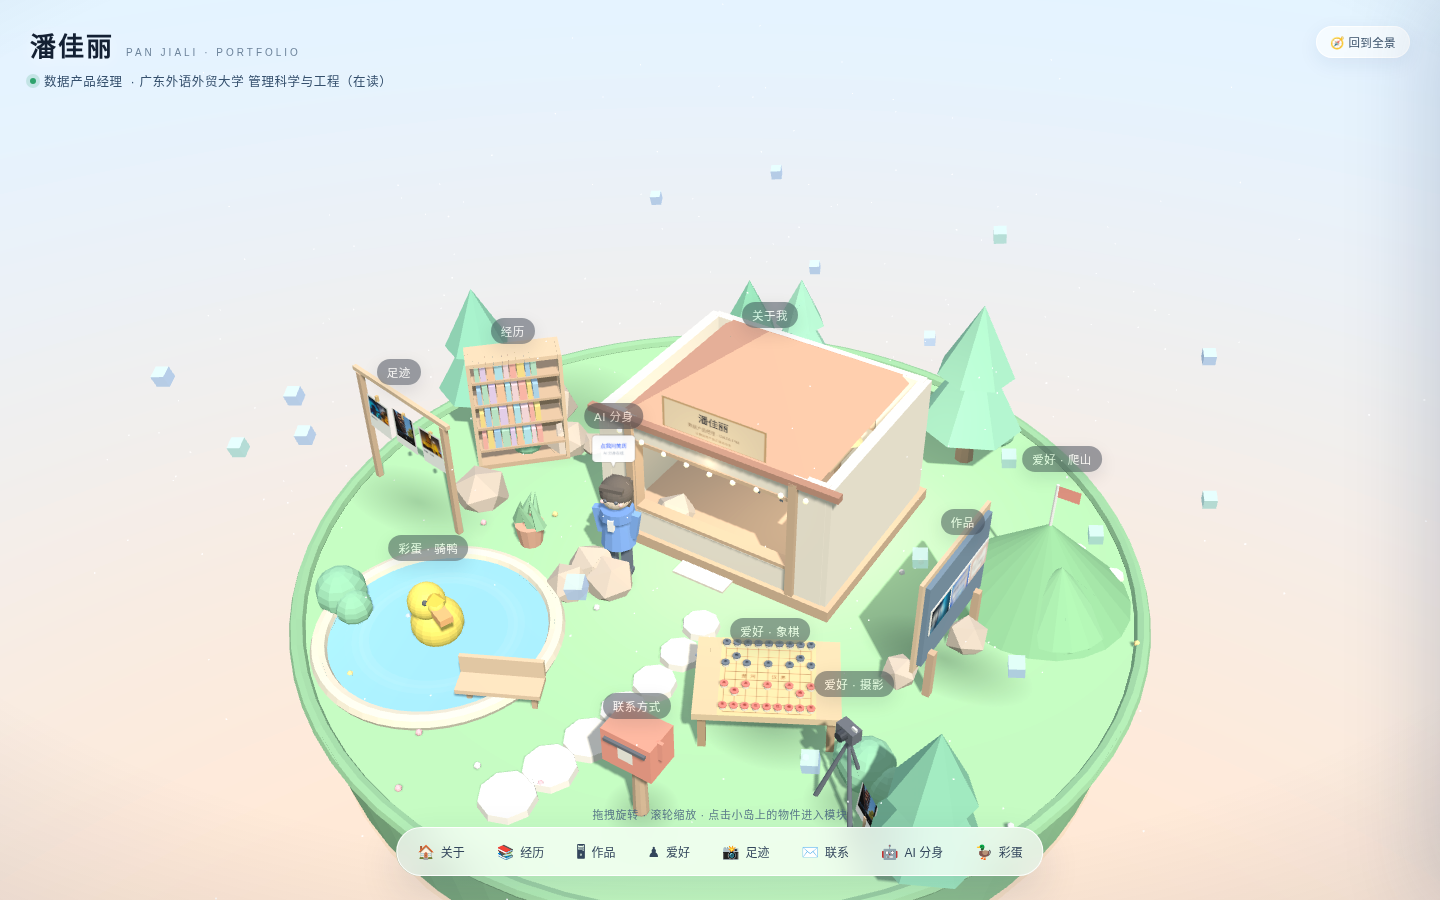
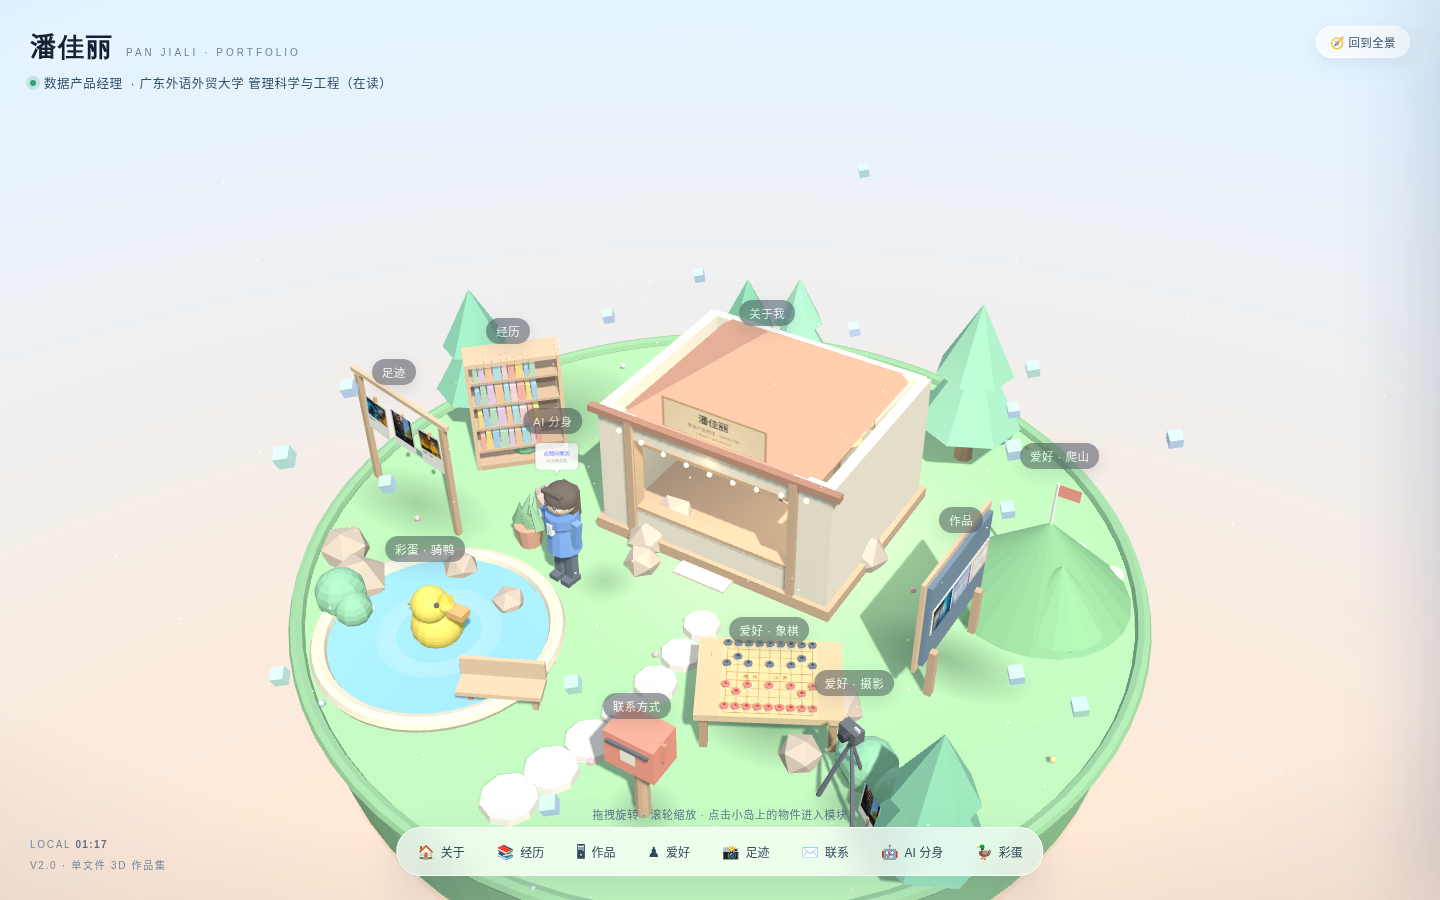
v2: cinematic intro, custom cursor, camera parallax, drag inertia, water ripples, focus ring, section index, clock, arrow keys

diff --git a/index.html b/index.html
@@ -32,6 +32,38 @@ canvas#scene.dragging{cursor:grabbing}
 #vignette{position:fixed;inset:0;pointer-events:none;z-index:6;background:radial-gradient(125% 105% at 50% 42%,rgba(255,255,255,0) 52%,rgba(24,46,84,.18) 88%,rgba(18,34,64,.3) 100%);mix-blend-mode:multiply}
 canvas#scene.pointing{cursor:pointer}
 
+/* ---------- v2：光标 / 氛围 / 章节 ---------- */
+#cursor{
+  position:fixed;left:0;top:0;width:24px;height:24px;margin:-12px 0 0 -12px;border-radius:50%;
+  border:1.4px solid rgba(24,44,74,.45);z-index:60;pointer-events:none;opacity:0;
+  transition:width .24s cubic-bezier(.2,.8,.2,1),height .24s cubic-bezier(.2,.8,.2,1),
+             margin .24s cubic-bezier(.2,.8,.2,1),background .24s,border-color .24s,opacity .25s;
+}
+#cursor.on{opacity:1}
+#cursor.hot{width:46px;height:46px;margin:-23px 0 0 -23px;background:rgba(47,107,255,.13);border-color:rgba(47,107,255,.75)}
+@media (hover:hover) and (pointer:fine){
+  canvas#scene{cursor:none}
+}
+@media (max-width:820px){#cursor{display:none}}
+
+.hud-meta{left:30px;bottom:26px;display:flex;flex-direction:column;gap:5px;font-size:10px;letter-spacing:1.7px;
+  color:#41607f;opacity:.7;text-transform:uppercase;line-height:1.6}
+.hud-meta b{font-weight:600;color:#233c58;letter-spacing:1.4px}
+@media (max-width:640px){.hud-meta{display:none}}
+
+.idxline{display:flex;align-items:flex-end;justify-content:space-between;gap:10px;margin-bottom:8px;padding-right:34px}
+.idxline .eyebrow{margin:0}
+.idxline .idx{font-size:10px;letter-spacing:2.4px;color:#8d97a6;font-variant-numeric:tabular-nums}
+.panel-head .bar{position:absolute;left:26px;right:26px;bottom:-1px;height:2px;border-radius:2px;
+  background:rgba(20,40,80,.07);overflow:hidden}
+.panel-head .bar i{display:block;height:100%;width:0;background:linear-gradient(90deg,#2f6bff,#8fb6ff);
+  transition:width .7s cubic-bezier(.2,.8,.2,1) .08s}
+body.panel-open #vignette{background:radial-gradient(120% 100% at 50% 46%,rgba(255,255,255,0) 46%,rgba(24,46,84,.24) 86%,rgba(14,28,54,.38) 100%)}
+
+.brand h1 span{display:inline-block;opacity:0;transform:translateY(10px);
+  animation:riseIn .9s cubic-bezier(.2,.8,.2,1) forwards}
+@keyframes riseIn{to{opacity:1;transform:none}}
+
 /* ---------- HUD ---------- */
 .hud{position:fixed;z-index:8;pointer-events:none;user-select:none}
 .hud-top{top:26px;left:30px;display:flex;flex-direction:column;gap:8px}
@@ -296,15 +328,21 @@ body.riding #labels{opacity:0}
 <body>
 <canvas id="scene"></canvas>
 <div id="vignette"></div>
+<div id="cursor"></div>
 <div id="labels"></div>
 
 <div class="hud hud-top">
-  <div class="brand"><h1>潘佳丽</h1><span class="en">PAN JIALI · PORTFOLIO</span></div>
+  <div class="brand"><h1 id="brandName">潘佳丽</h1><span class="en">PAN JIALI · PORTFOLIO</span></div>
   <div class="brand-sub"><span class="dot"></span><span>数据产品经理</span><span class="edu">· 广东外语外贸大学 管理科学与工程（在读）</span></div>
 </div>
 
 <div class="hud hud-right">
   <div class="pill" id="btnReset">🧭 回到全景</div>
+</div>
+
+<div class="hud hud-meta">
+  <span>LOCAL <b id="metaClock">--:--</b></span>
+  <span>V2.0 · 单文件 3D 作品集</span>
 </div>
 
 <div class="hud hint">拖拽旋转 · 滚轮缩放 · 点击小岛上的物件进入模块</div>
@@ -322,10 +360,11 @@ body.riding #labels{opacity:0}
 
 <aside class="panel" id="panel">
   <div class="panel-head">
-    <div class="eyebrow" id="pEyebrow"></div>
+    <div class="idxline"><div class="eyebrow" id="pEyebrow"></div><span class="idx" id="pIdx"></span></div>
     <h2 id="pTitle"></h2>
     <p id="pSub"></p>
     <button class="close" id="pClose">✕</button>
+    <div class="bar"><i id="pBar"></i></div>
   </div>
   <div class="panel-body" id="pBody"></div>
   <div class="foot-note" id="pFoot">潘佳丽 · 3D 个人小岛 · 拖拽可继续环视</div>
@@ -1195,6 +1234,62 @@ register('duck', duck, '彩蛋 · 骑鸭', 1.4, 1.2, { theta: 0.2, phi: 1.16, r:
 hotspots.forEach(h => h.base = h.root.position.y);
 
 
+/* --- v2 交互层：光标 / 视差 / 惯性 / 涟漪 --- */
+const cursorEl = document.getElementById('cursor');
+const cur = { x: innerWidth / 2, y: innerHeight / 2, tx: innerWidth / 2, ty: innerHeight / 2, on: false, overUI: false };
+addEventListener('pointermove', e => {
+  cur.tx = e.clientX; cur.ty = e.clientY;
+  if (!cur.on && e.pointerType === 'mouse') { cur.on = true; cursorEl.classList.add('on'); }
+  if (e.pointerType === 'mouse' && pointers.size === 0) {
+    par.tx = (e.clientX / innerWidth) * 2 - 1;
+    par.ty = (e.clientY / innerHeight) * 2 - 1;
+  }
+});
+addEventListener('pointerleave', () => { cur.on = false; cursorEl.classList.remove('on'); });
+document.addEventListener('pointerover', e => {
+  cur.overUI = !!e.target.closest('button,.pill,.tag,img,.xqp,input');
+});
+function tickCursor(dt) {
+  const k = 1 - Math.pow(0.0007, dt);
+  cur.x += (cur.tx - cur.x) * k;
+  cur.y += (cur.ty - cur.y) * k;
+  cursorEl.style.transform = `translate(${cur.x}px,${cur.y}px)`;
+  cursorEl.classList.toggle('hot', !!hoverId || cur.overUI);
+}
+
+// 相机鼠标视差
+const par = { x: 0, y: 0, tx: 0, ty: 0 };
+
+// 拖拽惯性
+let spinV = 0;
+
+// 水面涟漪 / 进入模块的地面光圈
+const clickRings = [];
+function spawnRipple(x, z, big) {
+  const g = new THREE.Mesh(new THREE.RingGeometry(0.82, 0.98, 44),
+    new THREE.MeshBasicMaterial({ color: 0xffffff, transparent: true, opacity: .5, side: THREE.DoubleSide, depthWrite: false }));
+  g.rotation.x = -Math.PI / 2; g.position.set(x, 0.13, z);
+  g.userData = { life: 0, dur: big ? 1.9 : 1.25 };
+  world.add(g); clickRings.push(g);
+}
+let focusRing = null;
+function pulseAt(x, z) {
+  if (focusRing) { world.remove(focusRing); focusRing.geometry.dispose(); focusRing.material.dispose(); }
+  const g = new THREE.Mesh(new THREE.RingGeometry(0.7, 1.0, 64),
+    new THREE.MeshBasicMaterial({ color: 0x2f6bff, transparent: true, opacity: .5, side: THREE.DoubleSide, depthWrite: false }));
+  g.rotation.x = -Math.PI / 2; g.position.set(x, 0.055, z);
+  g.userData = { life: 0 };
+  world.add(g); focusRing = g;
+}
+
+// 本地时间
+const metaClock = document.getElementById('metaClock');
+function tickClock() {
+  const d = new Date();
+  metaClock.textContent = String(d.getHours()).padStart(2, '0') + ':' + String(d.getMinutes()).padStart(2, '0');
+}
+tickClock(); setInterval(tickClock, 20000);
+
 /* --- 相机控制 --- */
 const view = { theta: 0.48, phi: 0.98, r: 15.2 };
 const want = { theta: 0.48, phi: 0.98, r: 15.2 };
@@ -1209,7 +1304,7 @@ let pinchDist = 0, dragTotal = 0, lastPointer = null;
 canvas.addEventListener('pointerdown', e => {
   canvas.setPointerCapture(e.pointerId);
   pointers.set(e.pointerId, { x: e.clientX, y: e.clientY });
-  if (pointers.size === 1) { lastPointer = { x: e.clientX, y: e.clientY }; dragTotal = 0; canvas.classList.add('dragging'); }
+  if (pointers.size === 1) { lastPointer = { x: e.clientX, y: e.clientY }; dragTotal = 0; spinV = 0; canvas.classList.add('dragging'); }
   if (pointers.size === 2) {
     const [a, b] = [...pointers.values()];
     pinchDist = Math.hypot(a.x - b.x, a.y - b.y);
@@ -1224,6 +1319,7 @@ canvas.addEventListener('pointermove', e => {
     const dx = e.clientX - lastPointer.x, dy = e.clientY - lastPointer.y;
     dragTotal += Math.abs(dx) + Math.abs(dy);
     want.theta -= dx * 0.0055;
+    spinV = -dx * 0.0055;
     want.phi = Math.min(1.42, Math.max(0.42, want.phi - dy * 0.0045));
     lastPointer = { x: e.clientX, y: e.clientY };
   } else if (pointers.size === 2) {
@@ -1240,6 +1336,7 @@ canvas.addEventListener('pointerup', e => {
   if (pointers.size === 0) canvas.classList.remove('dragging');
   pinchDist = 0;
   if (dragTotal < 8) pick(e);
+  else spinV = Math.max(-0.06, Math.min(0.06, spinV));
   lastPointer = null;
 });
 canvas.addEventListener('pointercancel', e => { pointers.delete(e.pointerId); canvas.classList.remove('dragging'); });
@@ -1277,6 +1374,14 @@ function hideAllTagsFocus() { hotspots.forEach(h => h.el.classList.remove('on'))
 
 function pick(e) {
   const p = pickAt(e);
+  ndc.x = (e.clientX / innerWidth) * 2 - 1;
+  ndc.y = -(e.clientY / innerHeight) * 2 + 1;
+  raycaster.setFromCamera(ndc, camera);
+  const wh = raycaster.intersectObject(pondWater, false);
+  if (wh.length && (!p || p.module === 'duck')) {
+    spawnRipple(wh[0].point.x, wh[0].point.z, false);
+    tone(520, 0.16, 'sine', 0.04);
+  }
   if (!p) return;
   if (p.isKey) { playNote(p.note); pressKeyMesh(p.key); return; }
   if (p.isChess) { playClack(); nudge(p.piece); openPanel('hobbies', true); return; }
@@ -1354,6 +1459,14 @@ function openPanel(id, focus) {
   const meta = META[id];
   panel.classList.toggle('chat', id === 'ai');
   pEyebrow.textContent = meta.en;
+  const ORDER = ['about', 'experience', 'works', 'hobbies', 'footprints', 'contact', 'ai', 'duck'];
+  const oi = ORDER.indexOf(id) + 1;
+  const pIdx = document.getElementById('pIdx'), pBar = document.getElementById('pBar');
+  pIdx.textContent = String(oi).padStart(2, '0') + ' / 08';
+  pBar.style.width = '0%';
+  requestAnimationFrame(() => { pBar.style.width = (oi / 8 * 100).toFixed(1) + '%'; });
+  const hp = hotspots.find(x => x.id === id);
+  if (hp) pulseAt(hp.root.position.x, hp.root.position.z);
   pTitle.textContent = meta.title;
   pSub.textContent = meta.sub;
   pFoot.textContent = meta.foot;
@@ -1770,6 +1883,14 @@ window.addEventListener('keydown', e => {
   if (e.key === 'Escape') { closePanel(); endRide(); }
   const map = { '1': 'about', '2': 'experience', '3': 'works', '4': 'hobbies', '5': 'footprints', '6': 'contact', '7': 'ai' };
   if (map[e.key]) openPanel(map[e.key]);
+  // 方向键也能转岛（面板关着时才接管）
+  if (!opened && !riding && e.key.startsWith('Arrow')) {
+    e.preventDefault();
+    if (e.key === 'ArrowLeft') want.theta -= 0.12;
+    if (e.key === 'ArrowRight') want.theta += 0.12;
+    if (e.key === 'ArrowUp') want.phi = Math.max(0.42, want.phi - 0.06);
+    if (e.key === 'ArrowDown') want.phi = Math.min(1.42, want.phi + 0.06);
+  }
 });
 
 /* --- AI 分身聊天（本地知识库） --- */
@@ -1883,6 +2004,15 @@ function updateCamera(dt) {
   }
   const k = 1 - Math.pow(0.0009, dt);
   want.phi = Math.min(1.44, Math.max(0.4, want.phi));
+  if (INTRO.on) {
+    if (!INTRO.start) INTRO.start = performance.now();
+    const u = Math.min(1, (performance.now() - INTRO.start) / 1000 / INTRO.dur), e = 1 - Math.pow(1 - u, 3);
+    want.theta = INTRO.s.theta + (INTRO.d.theta - INTRO.s.theta) * e;
+    want.phi = INTRO.s.phi + (INTRO.d.phi - INTRO.s.phi) * e;
+    want.r = INTRO.s.r + (INTRO.d.r - INTRO.s.r) * e;
+    if (u >= 1) INTRO.on = false;
+  }
+  if (Math.abs(spinV) > 0.0003) { want.theta += spinV; spinV *= Math.pow(0.93, dt * 60); }
   view.theta += (want.theta - view.theta) * k;
   view.phi += (want.phi - view.phi) * k;
   view.r += (want.r - view.r) * k;
@@ -1893,6 +2023,14 @@ function updateCamera(dt) {
     look.y + view.r * cp + 0.9,
     look.z + view.r * sp * Math.cos(view.theta)
   );
+  // 鼠标视差：镜头轻微横移，像手持拍摄
+  const pk = 1 - Math.pow(0.002, dt);
+  par.x += (par.tx - par.x) * pk;
+  par.y += (par.ty - par.y) * pk;
+  const amp = opened ? 0.32 : 0.78;
+  camera.position.x += Math.cos(view.theta) * par.x * amp;
+  camera.position.z -= Math.sin(view.theta) * par.x * amp;
+  camera.position.y += -par.y * amp * 0.6;
   camera.lookAt(look);
 }
 
@@ -1906,9 +2044,11 @@ function updateLabels() {
     const vis = wp.z < 1 && wp.x > -1.2 && wp.x < 1.2 && wp.y > -1.2 && wp.y < 1.2;
     hs.el.style.display = vis ? 'block' : 'none';
     if (vis) {
-      hs.el.style.left = ((wp.x + 1) / 2 * w) + 'px';
+      // 贴边时把标签拉回屏内，避免被裁掉
+      const lx = Math.min(w - 46, Math.max(46, (wp.x + 1) / 2 * w));
+      hs.el.style.left = lx + 'px';
       hs.el.style.top = ((-wp.y + 1) / 2 * h) + 'px';
-      live.push({ el: hs.el, x: (wp.x + 1) / 2 * w, y: (-wp.y + 1) / 2 * h });
+      live.push({ el: hs.el, x: lx, y: (-wp.y + 1) / 2 * h });
     }
   });
   // 窄屏标签容易叠在一起，做一次简单的下推避让
@@ -1963,6 +2103,21 @@ function animate() {
     rp.m.scale.setScalar(0.4 + u * 1.15);
     rp.m.material.opacity = Math.max(0, 0.34 * (1 - u));
   });
+  // 涟漪与光圈
+  for (let i = clickRings.length - 1; i >= 0; i--) {
+    const g = clickRings[i]; g.userData.life += dt;
+    const u = g.userData.life / g.userData.dur;
+    if (u >= 1) { world.remove(g); g.geometry.dispose(); g.material.dispose(); clickRings.splice(i, 1); continue; }
+    g.scale.setScalar(0.25 + u * 1.85);
+    g.material.opacity = 0.5 * (1 - u) * (1 - u);
+  }
+  if (focusRing) {
+    focusRing.userData.life += dt;
+    const u = focusRing.userData.life / 1.5;
+    if (u >= 1) { world.remove(focusRing); focusRing.geometry.dispose(); focusRing.material.dispose(); focusRing = null; }
+    else { focusRing.scale.setScalar(0.35 + u * 2.0); focusRing.material.opacity = 0.5 * (1 - u); }
+  }
+  tickCursor(dt);
   dust.rotation.y = t * 0.014;
   const du = t * 0.12;
   dust.position.y = Math.sin(du) * 0.22;
@@ -2021,14 +2176,24 @@ function applyViewport(reset) {
 window.addEventListener('resize', () => applyViewport(false));
 
 const PORTRAIT = applyViewport(true);
+/* 首屏：2.6 秒的镜头入场，从高处绕到正面 */
+want.r = PORTRAIT ? 27 : 20.5; want.theta = 0.55; want.phi = PORTRAIT ? 1.0 : 0.96;
+view.r = PORTRAIT ? 46 : 38; view.theta = -0.72; view.phi = PORTRAIT ? 0.74 : 0.68;
+const INTRO = { start: 0, dur: 2.6, on: true,
+  s: { theta: view.theta, phi: view.phi, r: view.r },
+  d: { theta: want.theta, phi: want.phi, r: want.r } };
+const bn = document.getElementById('brandName');
+if (bn) {
+  const chars = [...bn.textContent];
+  bn.innerHTML = chars.map((c, i) => `<span style="animation-delay:${0.15 + i * 0.09}s">${c}</span>`).join('');
+}
+
 /* 启动 */
 camera.position.set(14, 11, 16);
 animate();
 setTimeout(() => document.getElementById('loader').classList.add('hide'), 500);
 
-/* 首屏轻微推近 */
-want.r = PORTRAIT ? 27 : 20.5; want.theta = 0.55; want.phi = PORTRAIT ? 1.0 : 0.96;
-view.r = PORTRAIT ? 34 : 28; view.theta = 0.9; view.phi = PORTRAIT ? 1.1 : 1.14;
+
 </script>
 </body>
 </html>

diff --git a/README.md b/README.md
@@ -36,7 +36,35 @@ python3 -m http.server 8000
 
 手机端：面板自动变成底部抽屉，导航栏折成两行，画幅自动适配竖屏，象棋盘按面板宽度自适应。
 
-## 3. 最该改的三件事
+## 3. 交互（v2 加的细节）
+
+- **入场**：镜头 2.6 秒从高位绕到正面，名字逐字升起。
+- **光标**：桌面端是一个跟随的细圆环，移过可点物件或按钮时放大、变蓝。
+- **视差**：鼠标移动时镜头轻微横移，像手持拍摄；拖拽时不叠加，避免抖。
+- **惯性**：快速拖一下松手，岛会顺着方向继续转一小段再停。
+- **点水**：点池塘任意位置会荡开一圈涟漪（点鸭子还是骑鸭）。
+- **进模块**：物件脚下会有一圈蓝色光圈扩散；面板右上角显示 `02 / 08` 章节号，标题下有进度条。
+- **方向键**：面板关闭时 ← → 转岛，↑ ↓ 俯仰；`1–7` 直达模块。
+- **底栏小字**：左下角是本地时间（每 20 秒刷新）与版本号。
+
+## 4. 版本回滚
+
+线上是 git 管理的，每次改动都是一个 commit，可以随时退回：
+
+```bash
+git tag                      # 看所有存档点
+git checkout v1-stable-20261126   # 回到「摆位修复完成」那一版（只读查看）
+git checkout main                 # 回到最新
+```
+
+当前存档点：
+- `v1-stable-20261126` —— 象棋 32 子开局、导出音乐、摆位全部修好的版本（不含 v2 交互）
+- `fd91414` —— 摆位修复
+- `43e6573` —— 真实联系方式 + 生活照 + 音乐爱好
+
+要我把线上退回哪一版，说一声就行。
+
+## 5. 最该改的三件事
 
 打开 `index.html`，搜索 `const CFG = {`，所有个人信息都在这一个对象里，改完保存、刷新即可（不用碰 3D 代码）。
 
@@ -49,12 +77,12 @@ python3 -m http.server 8000
 
 其余文案（`internships` / `studentWork` / `honors` / `works` / `skills`）都取自原始 PPT，可直接改字句。
 
-## 4. 换作品图片 / 换自己的 3D 小人（可选）
+## 6. 换作品图片 / 换自己的 3D 小人（可选）
 
 - **换作品封面**：`works` 每条支持 `cover` 字段（值为图片地址或 base64），没有 `cover` 的卡片会自动变成纯文字卡。
 - **换 3D 小人**：当前小人是几何体拼的（不占体积、任何浏览器都能跑）。想换成 Meshy 生成的真人形象：Meshy 上传四视图 → 绑 2 个动作（步行 + 互动，别绑太多否则会卡）→ 导出 GLB → 用 GLTFLoader 加载后替换 `const avatar = new THREE.Group()` 那段，位置放在 `(-1.35, 0, 1.5)` 附近。GLB 发我也可以帮你接。
 
-## 5. 更新线上版本
+## 7. 更新线上版本
 
 ```bash
 cd portfolio-repo
@@ -64,7 +92,7 @@ git add -A && git commit -m "update content" && git push
 
 GitHub Pages 约 1 分钟后自动重建，不需要在网页上点任何按钮。
 
-## 6. 性能与兼容
+## 8. 性能与兼容
 
 - 单文件约 1.2 MB（含 Three.js、证件照、作品图与 4 张生活照），gzip 传输约 400 KB 左右。
 - 需要 WebGL（近 5 年的主流浏览器都支持）。
